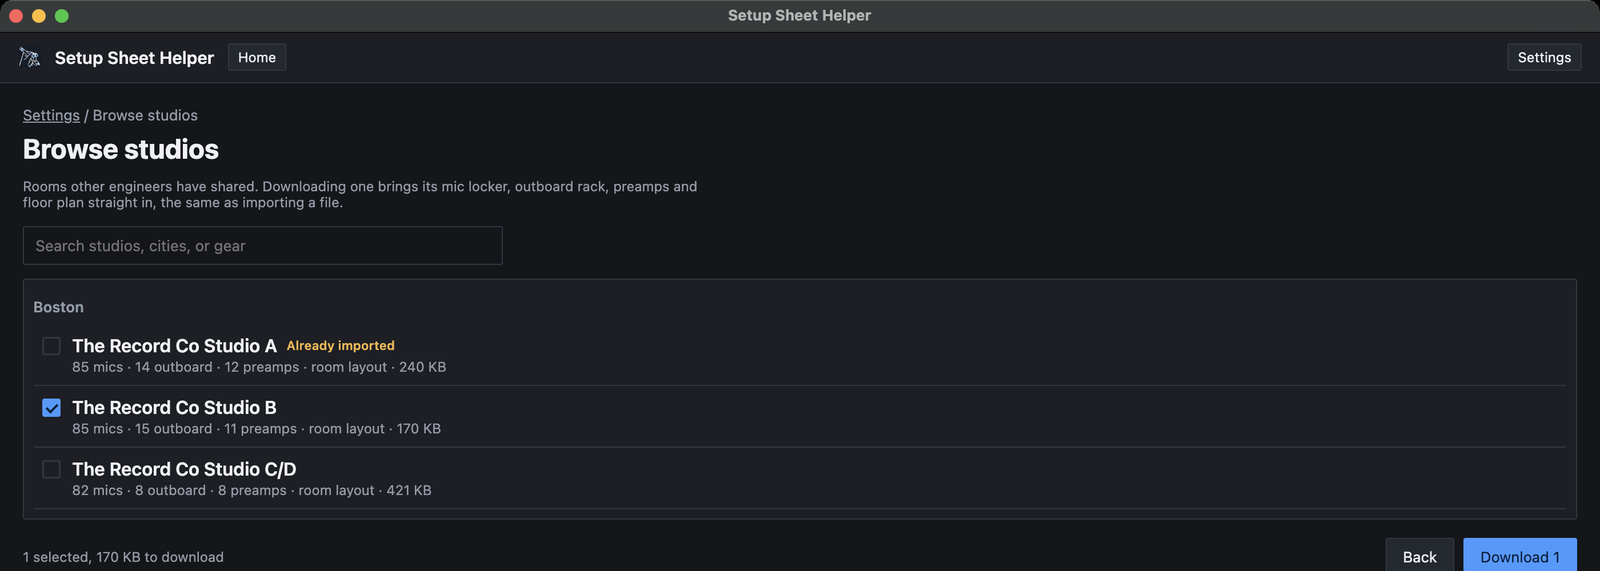
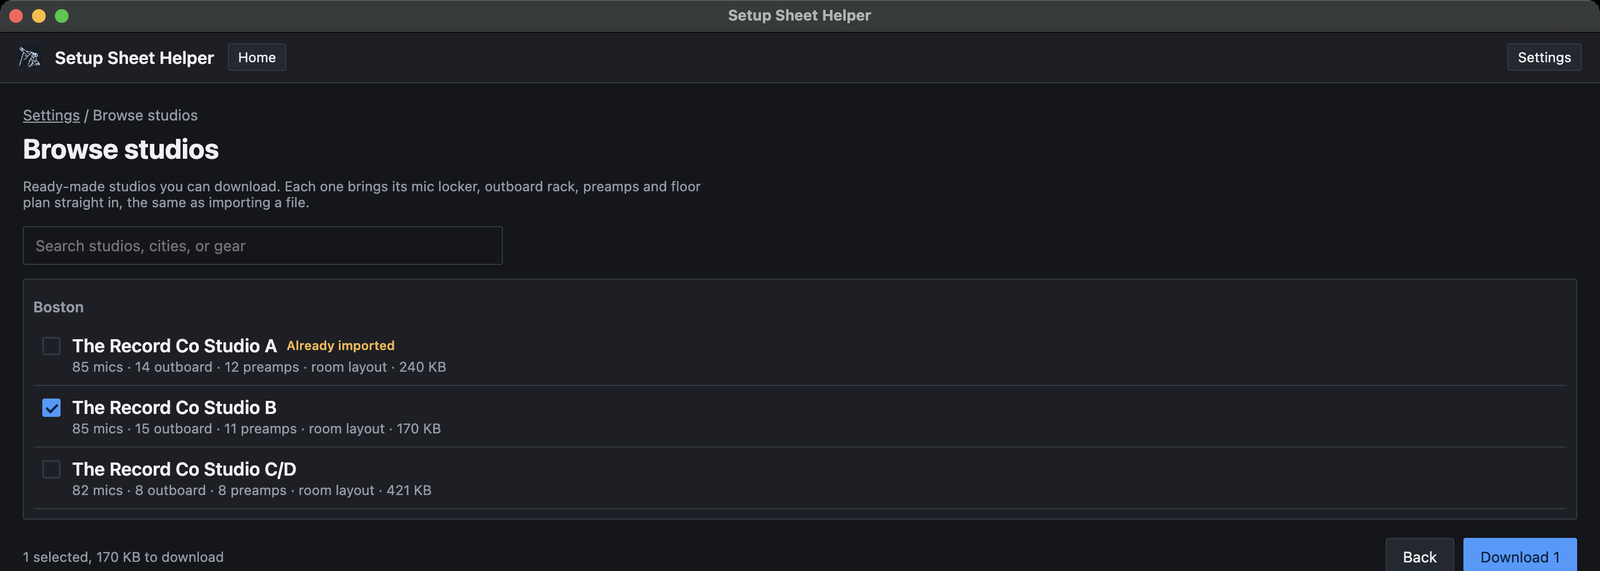
Describe the online studios as ready-made, not shared by other engineers
The studio library is curated, not user-submitted, so the manual no longer says engineers share
rooms there and the Studio Downloads page drops its "Want your room in here?" invitation. The two
screenshots showing the old app wording are reshot.

Changed region(s): [[0.0, 0.2977, 0.4375, 0.387]]

diff --git a/manual-sharing.html b/manual-sharing.html
@@ -4,7 +4,7 @@
 <meta charset="UTF-8" />
 <meta name="viewport" content="width=device-width, initial-scale=1.0" />
 <title>Sharing and backups. Setup Sheet Helper Manual</title>
-<meta name="description" content="Export and import Setup Sheet Helper studios and setups as files, download shared studios, and learn how the app backs up your work automatically." />
+<meta name="description" content="Export and import Setup Sheet Helper studios and setups as files, download ready-made studios, and learn how the app backs up your work automatically." />
 <link rel="canonical" href="https://setupsheethelper.julianro.se/manual-sharing.html" />
 <link rel="icon" href="assets/favicon-32.png" type="image/png" />
 <link rel="apple-touch-icon" href="assets/apple-touch-icon.png" />
@@ -16,14 +16,14 @@
 <meta property="og:url" content="https://setupsheethelper.julianro.se/manual-sharing.html" />
 <meta property="og:site_name" content="Setup Sheet Helper" />
 <meta property="og:title" content="Sharing and backups. Setup Sheet Helper Manual" />
-<meta property="og:description" content="Export and import Setup Sheet Helper studios and setups as files, download shared studios, and learn how the app backs up your work automatically." />
+<meta property="og:description" content="Export and import Setup Sheet Helper studios and setups as files, download ready-made studios, and learn how the app backs up your work automatically." />
 <meta property="og:image" content="https://setupsheethelper.julianro.se/assets/og-image.png" />
 <meta property="og:image:width" content="1200" />
 <meta property="og:image:height" content="630" />
 
 <meta name="twitter:card" content="summary_large_image" />
 <meta name="twitter:title" content="Sharing and backups. Setup Sheet Helper Manual" />
-<meta name="twitter:description" content="Export and import Setup Sheet Helper studios and setups as files, download shared studios, and learn how the app backs up your work automatically." />
+<meta name="twitter:description" content="Export and import Setup Sheet Helper studios and setups as files, download ready-made studios, and learn how the app backs up your work automatically." />
 <meta name="twitter:image" content="https://setupsheethelper.julianro.se/assets/og-image.png" />
 
 <script type="application/ld+json">
@@ -31,7 +31,7 @@
   "@context": "https://schema.org",
   "@type": "TechArticle",
   "headline": "Sharing and backups. Setup Sheet Helper Manual",
-  "description": "Export and import Setup Sheet Helper studios and setups as files, download shared studios, and learn how the app backs up your work automatically.",
+  "description": "Export and import Setup Sheet Helper studios and setups as files, download ready-made studios, and learn how the app backs up your work automatically.",
   "url": "https://setupsheethelper.julianro.se/manual-sharing.html",
   "isPartOf": {
     "@type": "WebSite",
@@ -191,7 +191,7 @@
     </ul>
 
     <h2 id="online-library">The online studio library</h2>
-    <p>You don't always need a file. Engineers share their studios online, and you can download them straight into the app with <span class="manual-ui">Browse studios online…</span> on the Import/Export tab. Downloads go through the same import screen as a file, including the <span class="manual-ui">Already imported</span> check. <a href="manual-studios.html#online-library">Part 6</a> walks through it.</p>
+    <p>You don't always need a file. Ready-made studios are available online, and you can download them straight into the app with <span class="manual-ui">Browse studios online…</span> on the Import/Export tab. Downloads go through the same import screen as a file, including the <span class="manual-ui">Already imported</span> check. <a href="manual-studios.html#online-library">Part 6</a> walks through it.</p>
     <p>You can also browse the same studios in your web browser on the <a href="studio-downloads.html">Studio Downloads</a> page, which the <span class="manual-ui">Browse downloadable studios</span> link on the tab opens. Files you download there import with <span class="manual-ui">Import studios…</span>.</p>
 
     <h2 id="safety-nets">Automatic safety nets</h2>

diff --git a/manual-studios.html b/manual-studios.html
@@ -208,7 +208,7 @@
     <p>Like everything else in the editor, the import isn't kept until you save. In the app's words: <span class="manual-ui">Nothing is saved until you save the studio.</span></p>
 
     <h2 id="online-library">Browsing studios online</h2>
-    <p>Other engineers share their rooms, gear lists and floor plans included. If yours is there, you can download it instead of typing it in. You need an internet connection.</p>
+    <p>Some studios come ready-made, with complete gear lists and floor plans. If yours is in the online library, download it instead of typing everything in. You need an internet connection.</p>
     <ol class="manual-steps">
       <li>
         <h3>Open the library</h3>
@@ -230,7 +230,7 @@
     <figure class="manual-shot">
       <img src="assets/manual/studio-browse-online.png" alt="The Browse studios screen in Settings: a search box, then a Boston group listing The Record Co Studio A marked Already imported, The Record Co Studio B ticked, and The Record Co Studio C/D, each with mic, outboard and preamp counts, room layout and size. The footer reads 1 selected, 170 KB to download, with Back and Download 1 buttons." loading="lazy" />
     </figure>
-    <p>Imported rooms appear under <span class="manual-ui">New Setup From Studio Template</span> like any studio you made yourself, and you can edit them. You can also browse the same rooms on this website's <a href="studio-downloads.html">Studio Downloads</a> page. <a href="manual-sharing.html">Part 11</a> covers studio files and sharing your own room.</p>
+    <p>Imported rooms appear under <span class="manual-ui">New Setup From Studio Template</span> like any studio you made yourself, and you can edit them. You can also browse the same rooms on this website's <a href="studio-downloads.html">Studio Downloads</a> page. <a href="manual-sharing.html">Part 11</a> covers studio files.</p>
 
     <h2 id="room-layout">The studio's room layout</h2>
     <p>The <span class="manual-ui">Room layout</span> section in the editor's left rail holds the floor plan every setup in this studio uses.</p>

diff --git a/studio-downloads.html b/studio-downloads.html
@@ -84,7 +84,6 @@
     </noscript>
 
     <p class="archive-note reveal">To use a pack, open Setup Sheet Helper and go to Settings, Import/Export, Import studios. Imported rooms land as Custom Studios, so they sit alongside anything you have already.</p>
-    <p class="archive-note reveal">Want your room in here? Send an export from Settings, Import/Export, Export studios to <a href="index.html#contact">the contact form</a>.</p>
   </section>
 
 </main>
